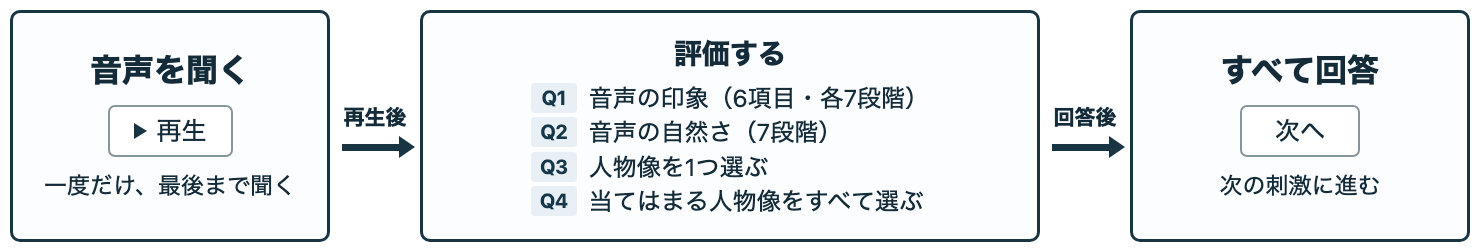
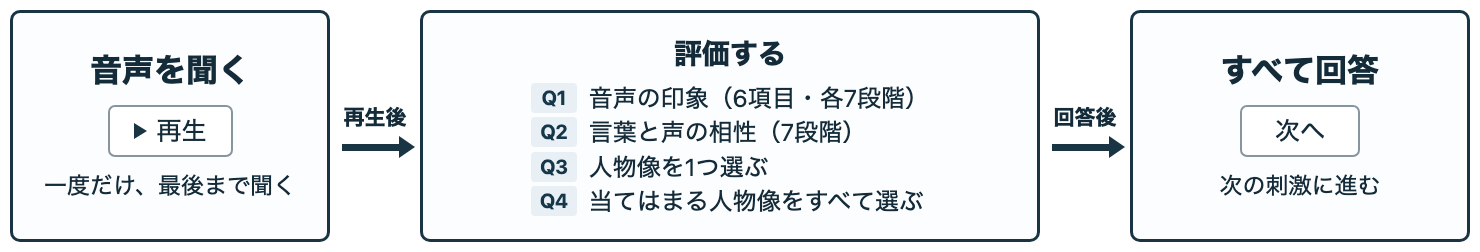
Clarify audio fit ratings and collect evaluation cues

Changed region(s): [[0.373, 0.4722, 0.5905, 0.5833]]

diff --git a/実験環境/scripts/task_instructions.js b/実験環境/scripts/task_instructions.js
@@ -21,7 +21,7 @@ const voice_task_steps_html = `
       「再生」をクリックして、音声を最後まで聞いてください。<b>各音声は一度だけ再生できます。</b>
     </li>
     <li style="margin-bottom: 18px;">
-      再生後、<b>Q1で音声の印象を6項目それぞれ7段階で、Q2で音声の自然さを7段階で</b>評価してください。
+      再生後、<b>Q1で音声の印象を6項目それぞれ7段階で、Q2で話している言葉と声の質の組み合わせの自然さを7段階で</b>評価してください。
       Q3では最も当てはまる人物像を1つ選び、Q4ではQ3で選んだ人物像も含めて、当てはまるものをすべて選んでください。
     </li>
   </ol>
@@ -106,7 +106,7 @@ const practice_intermission = {
         </p>
         ${voice_task_steps_html}
         <img class="task-flow-image" src="./assets/images/audio-task-flow.png"
-             alt="音声の手順。再生して最後まで聞く。印象、自然さ、人物像の4問に答えて次の音声へ進む。">
+             alt="音声の手順。再生して最後まで聞く。印象、言葉と声の相性、人物像の4問に答えて次の音声へ進む。">
         <h2 style="font-size: 22px; margin: 28px 0 16px;">文字を読む課題（Q1〜Q3）</h2>
         <ol style="font-size: 18px; line-height: 1.9; padding-left: 1.8em; margin: 0 0 28px 0;">
           <li style="margin-bottom: 18px;">画面上部に表示される文を読み、その下の設問に回答してください。</li>
@@ -162,7 +162,7 @@ const intermission = {
 
 function createBlockNotice(blockNumber, modality) {
   const instruction = modality === "audio"
-    ? "音声を最後まで聞いて、印象と自然さを評価し、想起する人物像を選んでください。"
+    ? "音声を最後まで聞いてください。音声の印象や、言葉と声の組み合わせの自然さを評価し、想起する人物像を選んでください。"
     : "画面に表示される文字を読んで、印象と想起する人物像を回答してください。";
 
   return {

diff --git a/実験環境/scripts/post_experiment_forms.js b/実験環境/scripts/post_experiment_forms.js
@@ -64,7 +64,7 @@ const demographics = {
 // =========================
 // 実験後アンケート
 // =========================
-// 実験後の不具合や参加状況をまとめて確認するアンケートです。
+// 実験後に参加状況や評価の手がかりを確認するアンケートです。
 const post_experiment_survey = {
   type: jsPsychSurveyHtmlForm,
   preamble:
@@ -95,8 +95,19 @@ const post_experiment_survey = {
         <label><input name="interrupted" type="radio" value="yes" required> はい</label><br>
         <label><input name="interrupted" type="radio" value="no"> いいえ</label>
 
-        <p style="margin-top: 28px;"><b>6. よろしければ、実験中の不具合や他に気づいたことがあれば、こちらにご記入ください（任意回答）</b></p>
+        <p style="margin-top: 28px; margin-bottom: 0;"><b><label for="evaluation-cues">6. 印象を評価したり、思い浮かんだ人物像を選んだりする際、どのような点を手がかりにしましたか？（任意回答）</label></b></p>
+        <p id="evaluation-cues-help" style="margin-top: 4px;">例：声の質、セリフの内容、言葉づかいなど。音声と文章で手がかりが異なった場合は、それぞれについてお書きください。</p>
         <textarea
+          id="evaluation-cues"
+          name="evaluation_cues"
+          aria-describedby="evaluation-cues-help"
+          rows="6"
+          style="width: 100%; max-width: 100%; font-size: 16px; padding: 10px; box-sizing: border-box;"
+        ></textarea>
+
+        <p style="margin-top: 28px;"><b><label for="free-comment">7. よろしければ、実験中の不具合や他に気づいたことがあれば、こちらにご記入ください（任意回答）</label></b></p>
+        <textarea
+          id="free-comment"
           name="free_comment"
           rows="6"
           style="width: 100%; max-width: 100%; font-size: 16px; padding: 10px; box-sizing: border-box;"

diff --git a/実験環境/scripts/evaluation_trials.js b/実験環境/scripts/evaluation_trials.js
@@ -113,12 +113,12 @@ function createEvaluationTrials(stimuli, { blockNumber = null, modality, phase }
 
     ${isAudio ? `
     <fieldset class="naturalness-question">
-      <legend>Q2. 今の音声はどの程度自然に聞こえましたか？</legend>
+      <legend>Q2. 話している言葉（セリフ）と声の質の組み合わせは、どの程度自然に感じられましたか？</legend>
       <div class="naturalness-scale">
         ${naturalness_scale.map((label, index) => `
           <label>
             <input type="radio" name="naturalness" value="${index + 1}" disabled>
-            <span>${index + 1}. ${label}</span>
+            <span>${label}</span>
           </label>
         `).join("")}
       </div>
